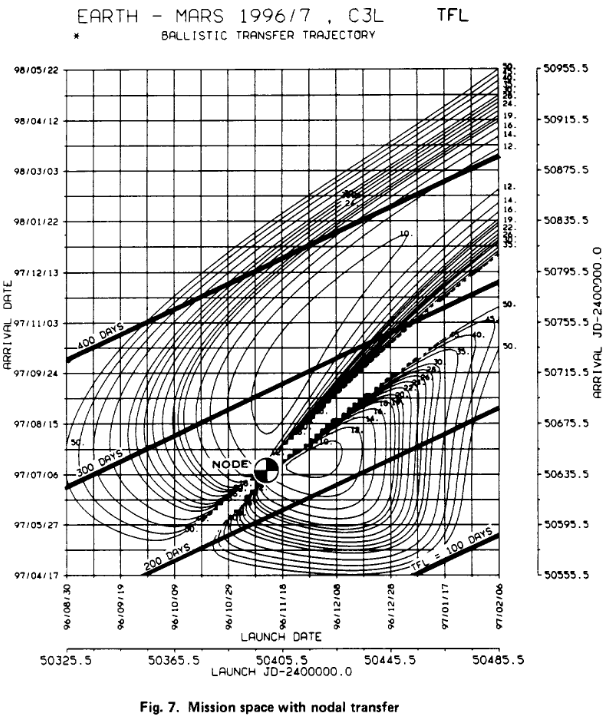
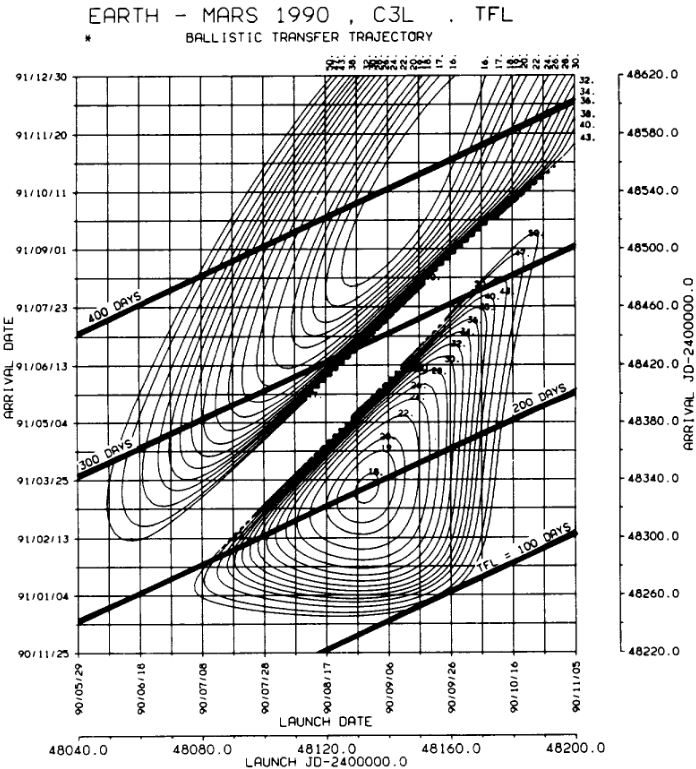
wip: change reference figure

diff --git a/examples/porkchop-plot.py b/examples/porkchop-plot.py
@@ -10,7 +10,7 @@
 #
 # ## Problem statement
 #
-# The goal of this tutorial is to reproduce the porkchop in Fig. 7 from  [NASA's Interplanetary Mission Design Handbook, Volume I, Part 2](https://ntrs.nasa.gov/api/citations/19840010158/downloads/19840010158.pdf). This porkchop shows the characteristic energy at launch $C_{3_{\text{launch}}} = \Delta v_{\text{launch}}^2$ for a interplanetary Lambert transfer between Earth and Mars.
+# The goal of this tutorial is to reproduce the porkchop in Fig. 4 from  [NASA's Interplanetary Mission Design Handbook, Volume I, Part 2](https://ntrs.nasa.gov/api/citations/19840010158/downloads/19840010158.pdf). This porkchop shows the characteristic energy at launch $C_{3_{\text{launch}}} = \Delta v_{\text{launch}}^2$ for a interplanetary Lambert transfer between Earth and Mars.
 #
 # ![Fig. 7 directly taken from NASA's manual](./img/nasa-porkchop.png)
 
@@ -89,8 +89,8 @@ def linspace_dates(start_date, end_date, interval, unit):
 
 # Declare the launch and arrival boundary dates as shown in the original figure by NASA:
 
-first_launch, last_launch = [root.conversion_utility.new_date("UTCG", date) for date in ["30 Aug 1996", "6 Feb 1997"]]
-first_arrival, last_arrival = [root.conversion_utility.new_date("UTCG", date) for date in ["17 Apr 1997", "22 May 1998"]]
+first_launch, last_launch = [root.conversion_utility.new_date("UTCG", date) for date in ["29 May 1990", "5 Nov 1990"]]
+first_arrival, last_arrival = [root.conversion_utility.new_date("UTCG", date) for date in ["25 Nov 1990", "30 Dec 1991"]]
 
 # Then, generate the launch and arrival date spans:
 
@@ -415,28 +415,31 @@ arrival_span = [as_datetime(date) for date in arrival_span]
 # To increase the beauty of the porkchop plot, the following contour levels apply:
 
 c3_launch_levels = np.linspace(0, 45, 19)
-dv_arrival_levels = np.linspace(0, 7, 8)
-tof_levels = np.linspace(0, 500, 6)
+dv_arrival_levels = np.linspace(0, 5, 6)
+tof_levels = np.linspace(0, 400, 5)
 
 # Finally, plot the porkchop
 
 # +
 import matplotlib.pyplot as plt
 from matplotlib import patheffects
+import matplotlib.dates as mdates
+import matplotlib.lines as mlines
 
 
-fig, ax = plt.subplots(figsize=(10, 15))
+fig, ax = plt.subplots(figsize=(10, 12))
 
-ax.set_title("EARTH - MARS 1996/7, C3L\nBALLISTIC TRANSFER TRAJECTORY")
-ax.set_xlabel("Launch date")
-ax.set_ylabel("Arrival date")
+ax.set_title("EARTH - MARS 1990, C3L\nBALLISTIC TRANSFER TRAJECTORY")
+ax.set_xlabel("LAUNCH DATE")
+ax.set_ylabel("ARRIVAL DATE")
 
 # Contour color for the characteristic energy
 c3_colors =  ax.contourf(
     launch_span, arrival_span, c3_launch_values, c3_launch_levels
 )
-c3_colorbar = fig.colorbar(c3_colors)
-c3_colorbar.set_label("$km^2 / s^2$")
+c3_colorbar_axes = fig.add_axes([1.05, 0.1, 0.03, 0.8])
+c3_colorbar = fig.colorbar(c3_colors, c3_colorbar_axes)
+c3_colorbar.set_label("Characteristic energy $km^2 / s^2$")
 
 # Contour lines for the characteristic energy
 c3_lines = ax.contour(
@@ -466,84 +469,32 @@ tof_labels = ax.clabel(
 plt.setp(tof_labels, path_effects=[
     patheffects.withStroke(linewidth=2, foreground="w")])
 
-# Add the target marker for the line of nodes
-marker_position = (datetime(1996, 11, 12), datetime(1997, 7, 8))
-ax.plot(*marker_position, marker="o", markersize=50, markerfacecolor="white", markeredgecolor="black", fillstyle="full")
-ax.plot(*marker_position, marker="+", markersize=50, markerfacecolor="white", markeredgecolor="black", fillstyle="full")
+# Format dates shown in the axes
+ax.xaxis.set_major_formatter(mdates.DateFormatter('%y/%m/%d'))
+ax.yaxis.set_major_formatter(mdates.DateFormatter('%y/%m/%d'))
+plt.xticks(rotation=90)
 
+# Set the ticks for bot axes
+ax.set_xticks([
+    as_datetime(date) 
+    for date in linspace_dates(first_launch, last_launch, 20, "day")
+])
+ax.set_yticks([
+    as_datetime(date) 
+    for date in linspace_dates(first_arrival, last_arrival, 40, "day")
+])
+
+# Duplicate
+#ax2 = ax.twinx()
+#ax2.set_ylabel("ARRIVAL JD-2400000.0")
+#ax2.spines['right'].set_position(('axes', 1.07))
+
+# Custom legend
+legend_lines = [
+    mlines.Line2D([], [], color='red', label='Time of flight'),
+    mlines.Line2D([], [], color='navy', label='Arrival velocity')
+]
+ax.legend(handles=legend_lines, loc='upper left')
+
+ax.grid(True, which='both', axis='both', color='gray', linestyle=':', linewidth=0.7)
 plt.show()
-
-# +
-fig, ax = plt.subplots()
-
-marker_pos = (0.5, 0.5)
-
-ax.plot(*marker_pos, marker="o", markersize=100, markerfacecolor="white", markeredgecolor="black", fillstyle="full")
-ax.plot(*marker_pos, marker="+", markersize=100, markerfacecolor="white", markeredgecolor="black", fillstyle="full")
-
-plt.show()
-
-# +
-random = np.random.RandomState(1)
-
-left = random.randn(2, 10)
-right = random.randn(2, 10)
-
-
-
-from matplotlib.markers import MarkerStyle
-
-plt.scatter(left[0], left[1], 
-            marker=MarkerStyle('o', fillstyle='left'),
-            color='red', label='left')
-plt.scatter(right[0], right[1], 
-            marker=MarkerStyle('o', fillstyle='right'),
-            color='blue', label='right')
-plt.legend()
-
-# +
-import matplotlib.pyplot as plt
-import matplotlib.patches as patches
-
-# Create the figure and axes
-fig, ax = plt.subplots()
-
-# Marker position
-marker_pos = (0.5, 0.5)
-
-# Plot the circular marker with the cross marker
-#ax.plot(*marker_pos, marker="o", markersize=100, markerfacecolor="white", markeredgecolor="black", fillstyle="full")
-#ax.plot(*marker_pos, marker="+", markersize=100, color="black")
-
-# Radius of the marker
-radius = 0.1
-
-# Add black filled triangles for top-right and bottom-left quadrants
-triangle1 = patches.Polygon([
-    (marker_pos[0], marker_pos[1]),
-    (marker_pos[0] + radius, marker_pos[1]),
-    (marker_pos[0], marker_pos[1] + radius)
-], closed=True, color="black")
-
-triangle2 = patches.Polygon([
-    (marker_pos[0], marker_pos[1]),
-    (marker_pos[0] - radius, marker_pos[1]),
-    (marker_pos[0], marker_pos[1] - radius)
-], closed=True, color="black")
-
-# Add the triangles to the plot
-ax.add_patch(triangle1)
-ax.add_patch(triangle2)
-
-# Set plot limits
-ax.set_xlim(0, 1)
-ax.set_ylim(0, 1)
-
-# Remove axes for a cleaner look
-ax.axis("off")
-
-# Display the plot
-plt.show()
-# -
-
-
